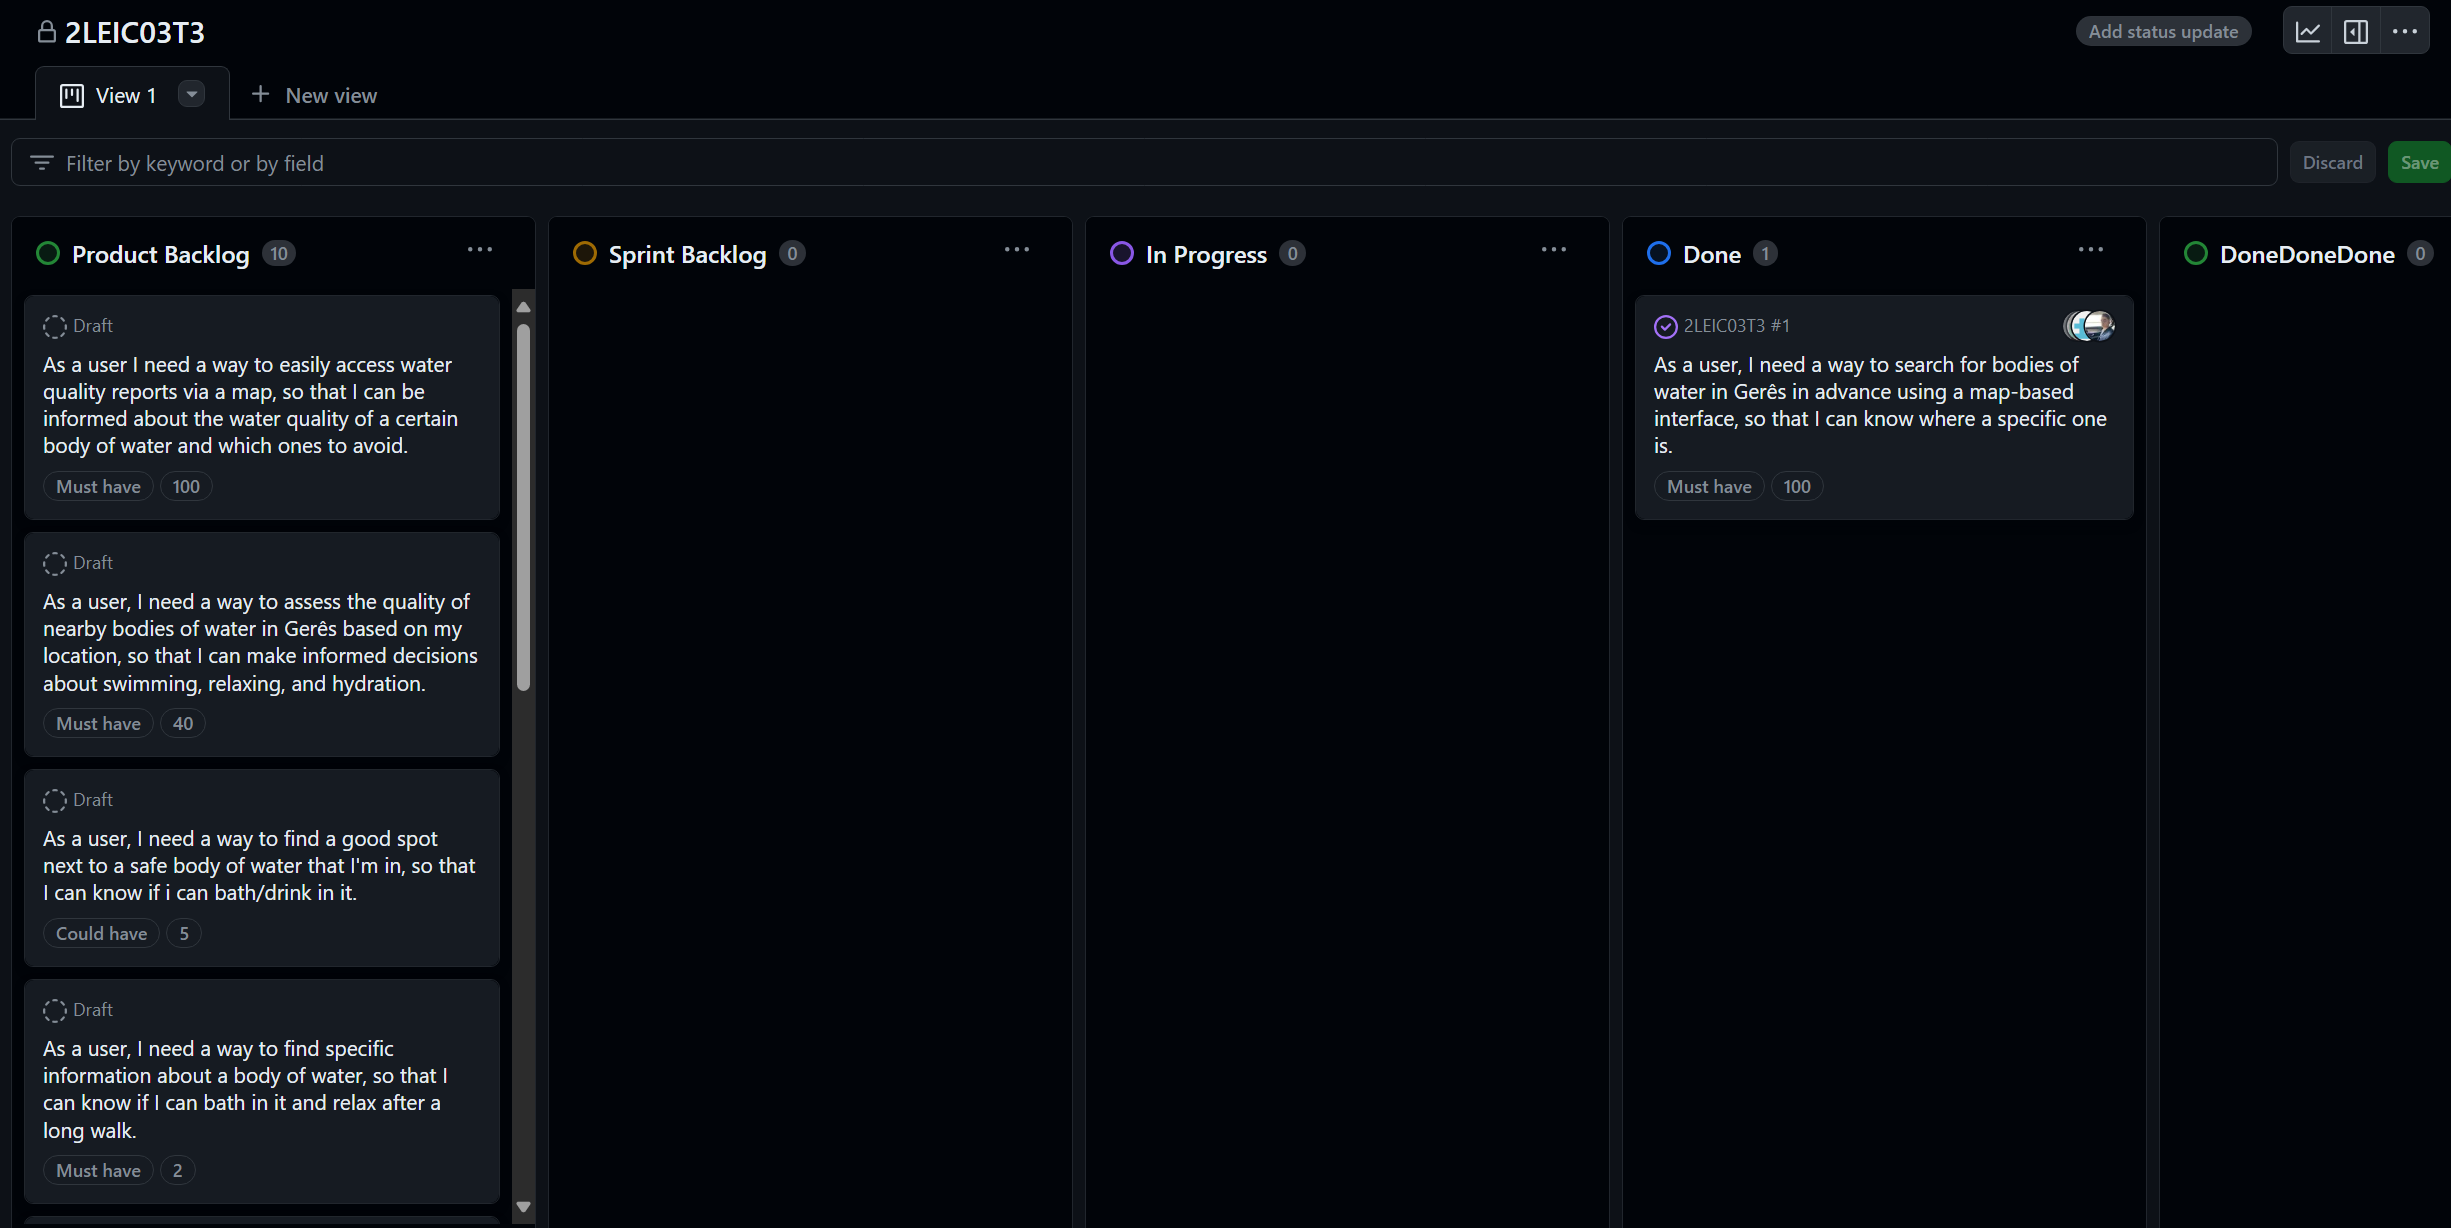
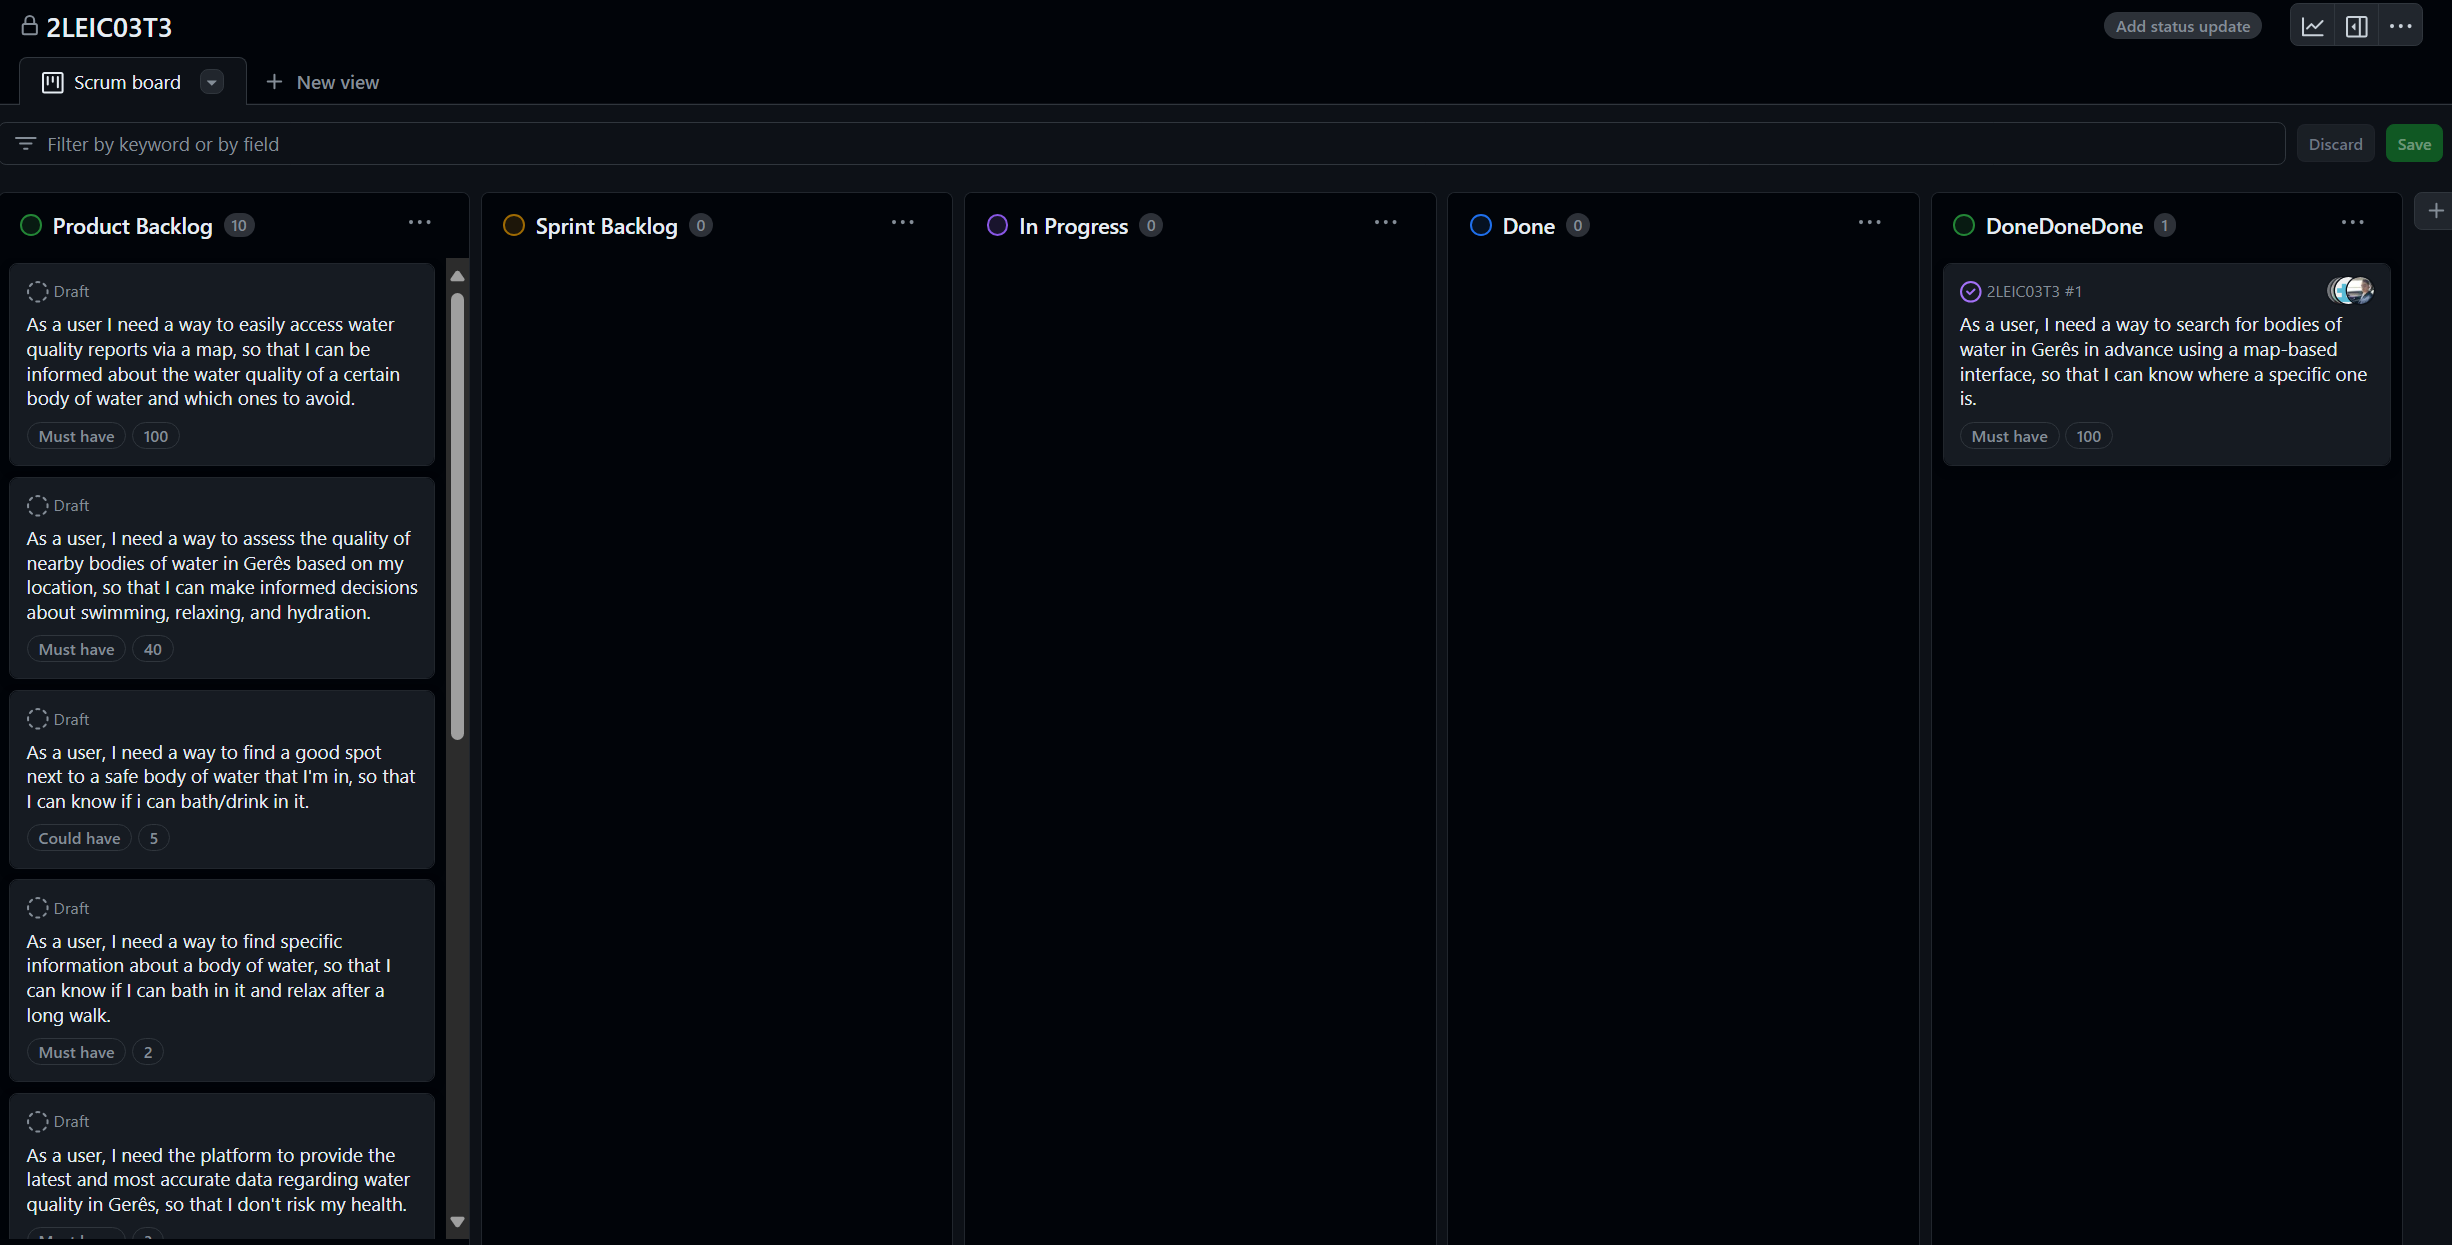
updated README after Sprint 1 review and retrospective and Sprint 2 planning

diff --git a/README.md b/README.md
@@ -168,7 +168,9 @@ Snapshot of the user interface:
 
 ## Project management
 
-- Scrum board after at the end of the Sprint 1 Planning:
+### Sprint 1
+
+- Scrum board at the end of the Sprint 1 Planning:
 
 ![img](READMEresources/sprintplanning1.png)
 
@@ -178,13 +180,20 @@ Snapshot of the user interface:
 
 - Notes on the Sprint Review:
 
-Feedback provided is recorded in the repository: notes on the delivered features and how the product backlog should be adapted.
+Demo of the product increment was successfully done on the web, because we had problems launching our app in an emulator and release of the product increment was created in Github.
+Goals of the Sprint 1 were accomplished and delivered features add value to the end-user. Product backlog was adapted accordingly.
 
 - Notes on the Sprint Retrospective:
 
-Team retrospectives have been done and registered in Github.
-Retrospective includes suggestions for improvement and a strategy (Verifiable Action Points).
+We implemented what we had planned and are satisfied with what we did and how we worked as a team.
+Unfortunately, we weren't able to test and launch our app using an emulator, just in the web. This problem still puzzles us and solving it is our top-priority now.
 
 - Happiness Meter after Sprint 1:
 
-Teams provided feedback in the happiness meter.
+We are very happy and proud about this Sprint 1.
+
+### Sprint 2
+
+- Scrum board at the end of the Sprint 2 Planning:
+
+![img](READMEresources/sprint2planning.png)

diff --git a/CHANGELOG.md b/CHANGELOG.md
@@ -3,7 +3,7 @@
 ## [1.0.1] - 2024-04-15
 
 ### Added
-- Completed PBI #1: Added new feature: Map with pins and default water quality report screen. This feature allows users to access a Google Maps interface and click on different pins over Gerês that when clicked open a default water quality report screen.
+- Completed PBI #1 https://github.com/FEUP-LEIC-ES-2023-24/2LEIC03T3/issues/1#issue-2220066253: Added new feature: Map with pins and default water quality report screen. This feature allows users to access a Google Maps interface and click on different pins over Gerês that when clicked open a default water quality report screen.
 - Underlying database was also created
 
 ## [1.0.0] - 2024-04-02
